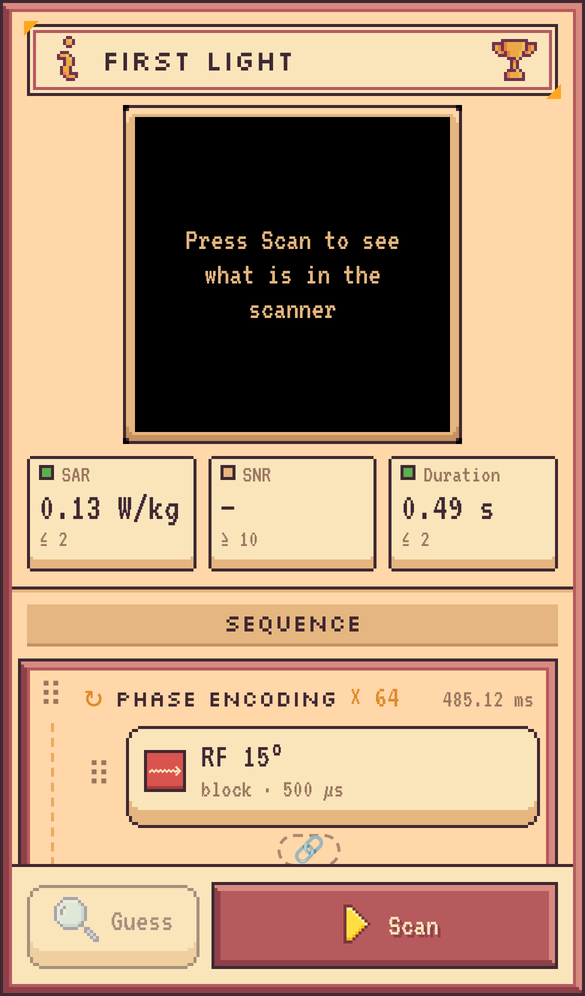
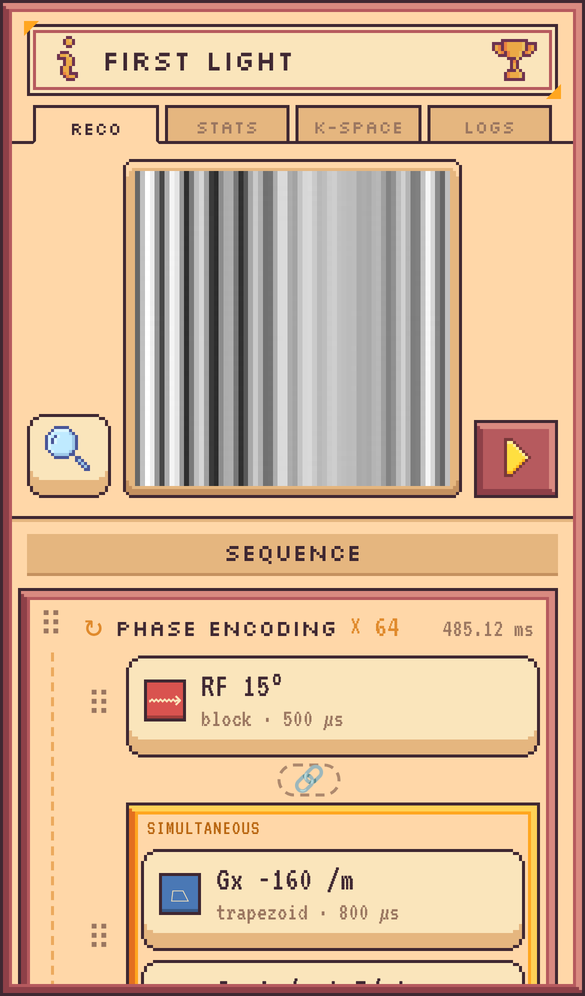
docs: describe the tabs and activity log, update screenshots
Claude-Session: https://claude.ai/code/session_01NHKPBa8uvzWWf5KZDZNXfv

diff --git a/docs/ARCHITECTURE.md b/docs/ARCHITECTURE.md
@@ -24,10 +24,14 @@ the app talks to the MRX MCP gateway directly. Leaderboard and challenges are st
   [Authentication](#authentication)); `App.tsx` uses the mock only with `VITE_MRX_MOCK=true`.
   - `mrx/` - minimal MCP client (Streamable HTTP), OAuth login, `.npy` reader/writer,
     image/SNR helpers and the simulation pipeline.
+  - `activityLog.ts` - in-memory log for the Logs tab. `timed(label, fn)` records every MRX
+    tool call, upload, download and whole scan with its duration, or the error it threw.
 - **`src/state/`** - `sequenceReducer` (UI actions -> domain operations) and `useSimulation`
   (async scan state, discards stale results).
-- **`src/ui/`** - React components. `sequence/` is the drag-and-drop editor, `sheets/` holds
-  the bottom-sheet popups. `EditorContext` provides the sequence and edit callbacks so the
+- **`src/ui/`** - React components. The top panel has tabs - Reco (`ReconView`), Stats
+  (`MetricsBar`), K-space (`KSpaceView`, trajex trajectory) and Logs (`LogView`) - with the
+  Guess and Scan buttons in its bottom corners. `sequence/` is the drag-and-drop editor,
+  `sheets/` holds the bottom-sheet popups. `EditorContext` provides the sequence and edit callbacks so the
   recursive lists and the sheets do not need prop drilling.
 
 State is plain `useReducer` + context. There is no global store library, no router and no UI
@@ -62,7 +66,8 @@ One scan (`src/services/mrx/mrxSimulation.ts`):
    gradient areas become trapezoids on a 10 µs raster with slew-limited ramps. Hardware limits
    (max amplitude) are not enforced yet.
 2. `upload_file` stores the `.seq`.
-3. In parallel: `trajex_extract_trajectory` (k-space per ADC sample) and `rapisim_simulate` on
+3. In parallel: `trajex_extract_trajectory` (k-space per ADC sample, plus the full trajectory
+   for the K-space tab) and `rapisim_simulate` on
    the challenge's phantom (`bifti_get_phantom`, resliced; `sampler: "fft"`).
 4. Noise is added in the browser (the simulation is noise-free) and the noisy signal is uploaded
    with `create_upload_url` (as `POST`: the gateway's CORS does not allow `PUT`).
